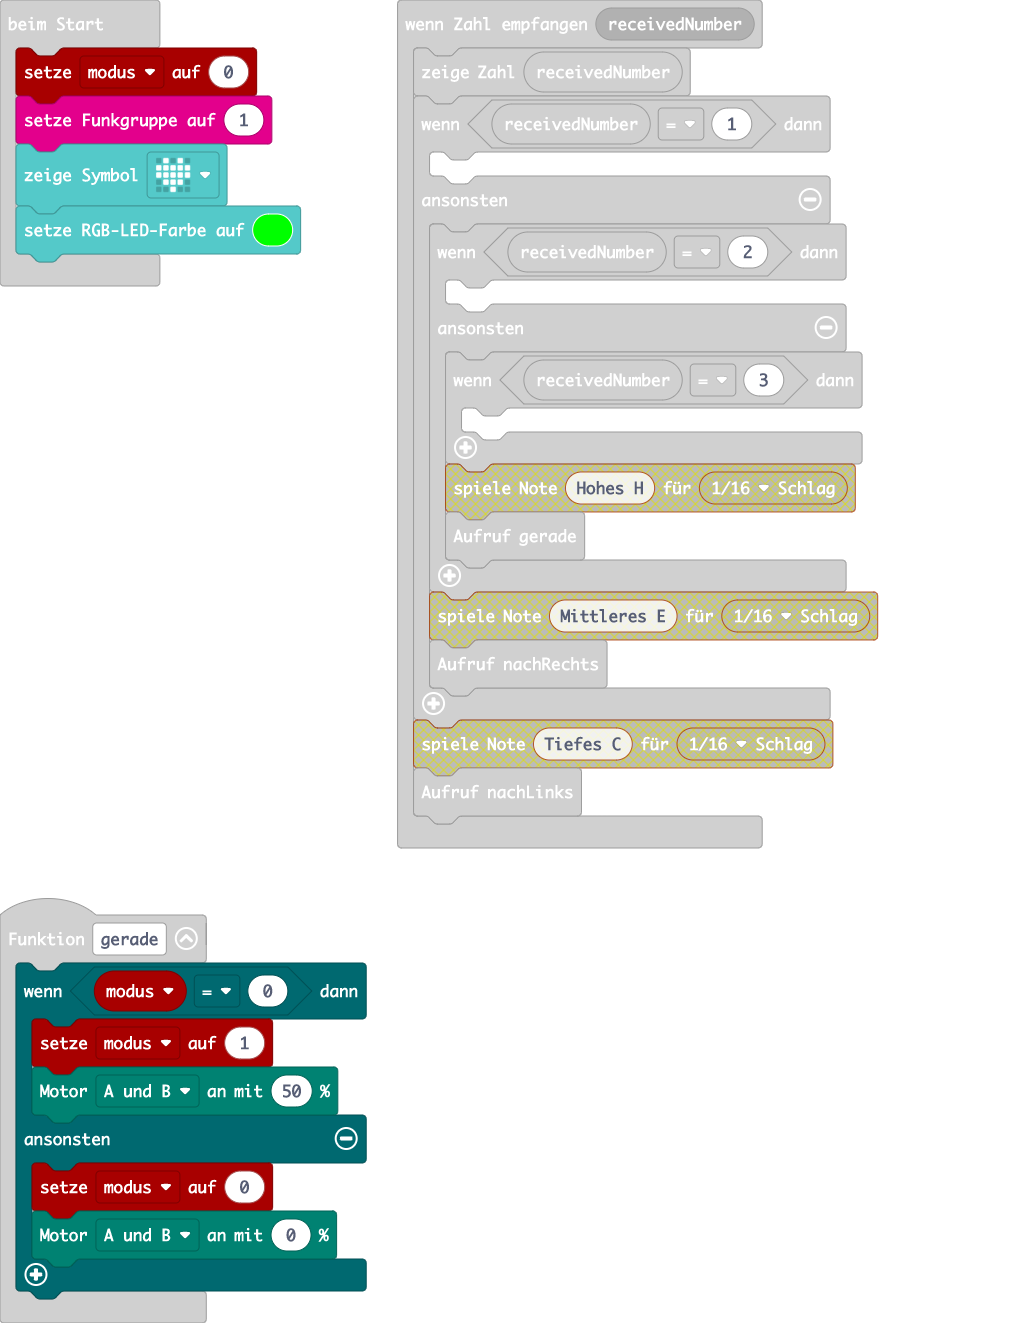
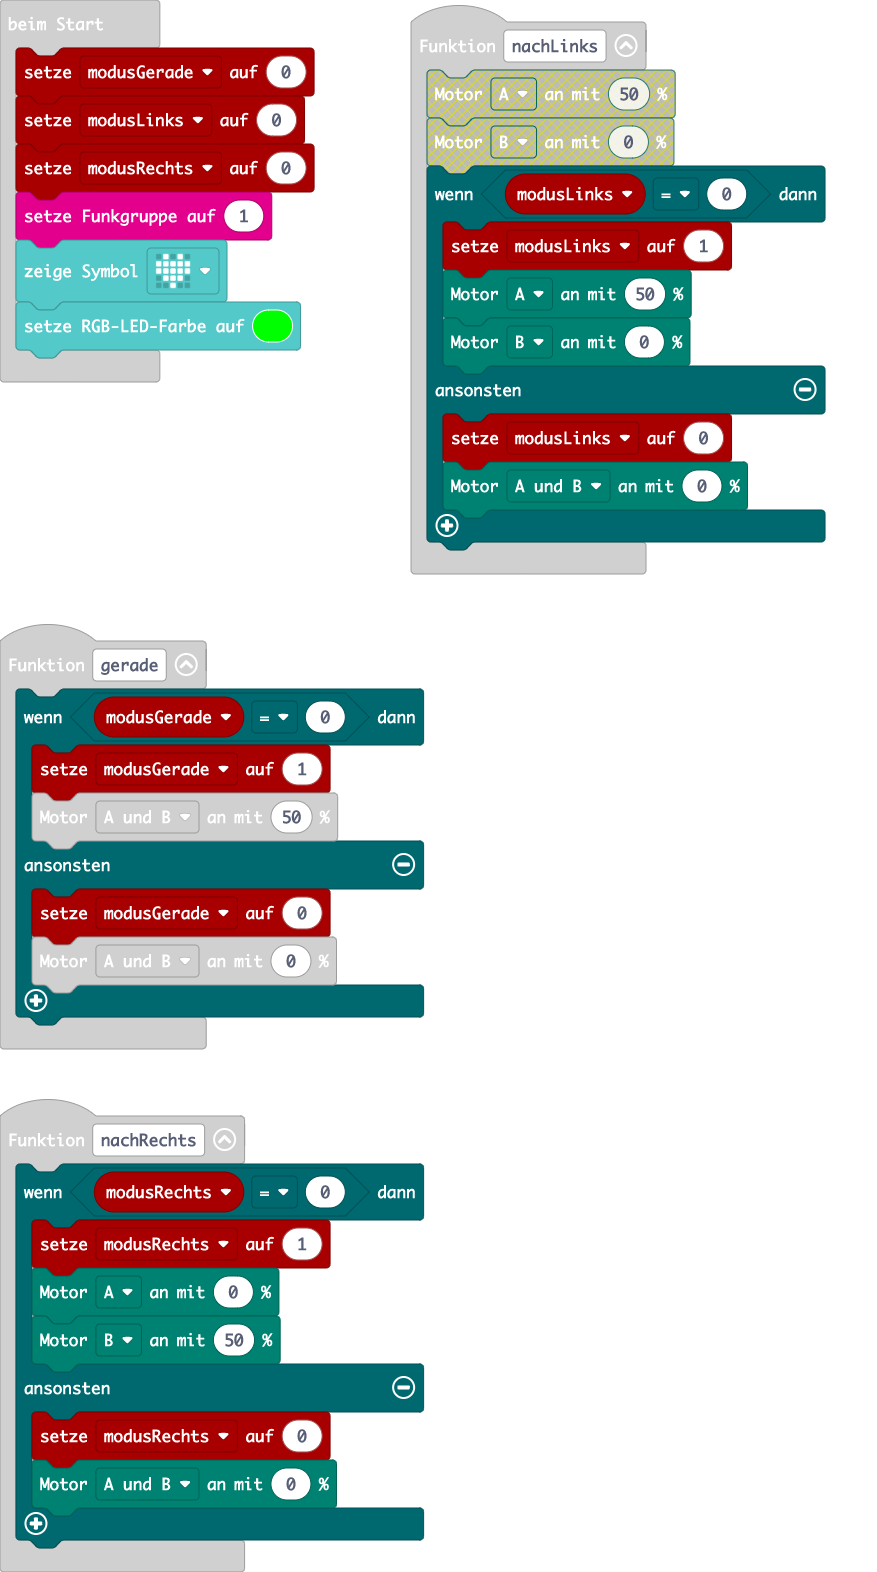
Aktualisiere main.blocks, main.ts

diff --git a/main.ts b/main.ts
@@ -13,24 +13,40 @@ radio.onReceivedNumber(function (receivedNumber) {
     }
 })
 function gerade () {
-    if (modus == 0) {
-        modus = 1
+    if (modusGerade == 0) {
+        modusGerade = 1
         motors.dualMotorPower(Motor.AB, 50)
     } else {
-        modus = 0
+        modusGerade = 0
         motors.dualMotorPower(Motor.AB, 0)
     }
 }
 function nachLinks () {
-    motors.dualMotorPower(Motor.A, 50)
-    motors.dualMotorPower(Motor.B, 0)
+    if (modusLinks == 0) {
+        modusLinks = 1
+        motors.dualMotorPower(Motor.A, 50)
+        motors.dualMotorPower(Motor.B, 0)
+    } else {
+        modusLinks = 0
+        motors.dualMotorPower(Motor.AB, 0)
+    }
 }
 function nachRechts () {
-    motors.dualMotorPower(Motor.A, 0)
-    motors.dualMotorPower(Motor.B, 50)
+    if (modusRechts == 0) {
+        modusRechts = 1
+        motors.dualMotorPower(Motor.A, 0)
+        motors.dualMotorPower(Motor.B, 50)
+    } else {
+        modusRechts = 0
+        motors.dualMotorPower(Motor.AB, 0)
+    }
 }
-let modus = 0
-modus = 0
+let modusRechts = 0
+let modusLinks = 0
+let modusGerade = 0
+modusGerade = 0
+modusLinks = 0
+modusRechts = 0
 radio.setGroup(1)
 basic.showIcon(IconNames.Heart)
 basic.setLedColor(0x00ff00)
